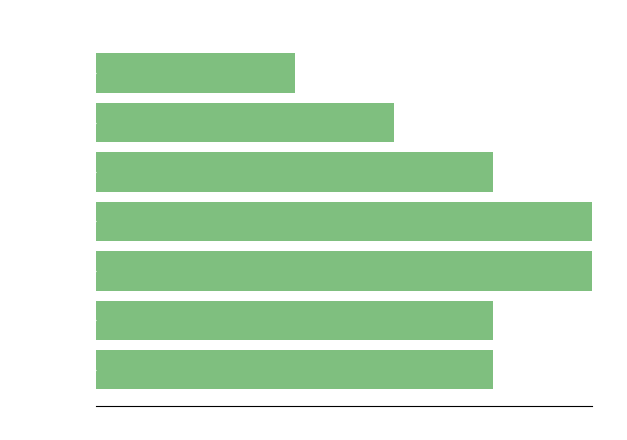
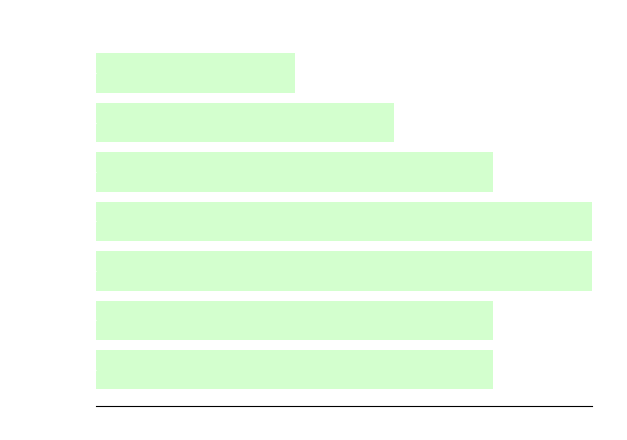
Change stack charts color

diff --git a/src/generate_charts.py b/src/generate_charts.py
@@ -44,28 +44,28 @@ covid_x = pd.to_datetime('20/03/2020', format='%d/%m/%Y')
 # Covid pandemics reference line
 ax.axvline(
     x=covid_x
-    ,color='red',
-    alpha=0.4)
+    ,color='red'
+    ,alpha=0.4)
 
 # Covid pandemics annotation
 ax.text(
     x=covid_x
     ,y=ymin + 0.3
-    ,s=' Coronavirus isolation\n is declared in Mexico',
-    alpha=0.4)
+    ,s=' Coronavirus isolation\n is declared in Mexico'
+    ,alpha=0.4)
 
 # Today reference line
 ax.axvline(
     x=today
-    ,color='red',
-    alpha=0.4)
+    ,color='red'
+    ,alpha=0.4)
 
 # Today annotation
 ax.text(
     x=today
     ,y=1.3
-    ,s=' The best is\n yet to come...',
-    alpha=0.4)
+    ,s=' The best is\n yet to come...'
+    ,alpha=0.4)
 
 for idx in range(df_.shape[0]):
     # Gráficas
@@ -124,8 +124,7 @@ ax = fig.add_subplot()
 ax.barh(
     y=analytics
     ,width=[4,4,5,5,4,3,2]
-    ,color='green'
-    ,alpha=0.5)
+    ,color=settings.config['images']['colors']['green'])
 
 ax.set_title('Advanced Analytics', fontsize=18)
 ax.set_xticks(
@@ -146,7 +145,7 @@ ax.barh(
     y=devs
     ,width=[1,4,2,5]
     ,color='red'
-    ,alpha=0.5)
+    ,alpha=0.4)
 
 ax.set_title('Development', fontsize=18)
 ax.set_xticks(
@@ -166,8 +165,7 @@ ax = fig.add_subplot()
 ax.barh(
     y=bi
     ,width=[5,3,2,5]
-    ,color='blue'
-    ,alpha=0.5)
+    ,color=settings.config['images']['colors']['blue'])
 
 ax.set_title('Business Inteligence', fontsize=18)
 ax.set_xticks(
@@ -187,8 +185,7 @@ ax = fig.add_subplot()
 ax.barh(
     y=storage
     ,width=[4,4,3,1]
-    ,color='purple'
-    ,alpha=0.5)
+    ,color=settings.config['images']['colors']['pink'])
 
 ax.set_title('Data Processing & Storage', fontsize=18)
 ax.set_xticks(
